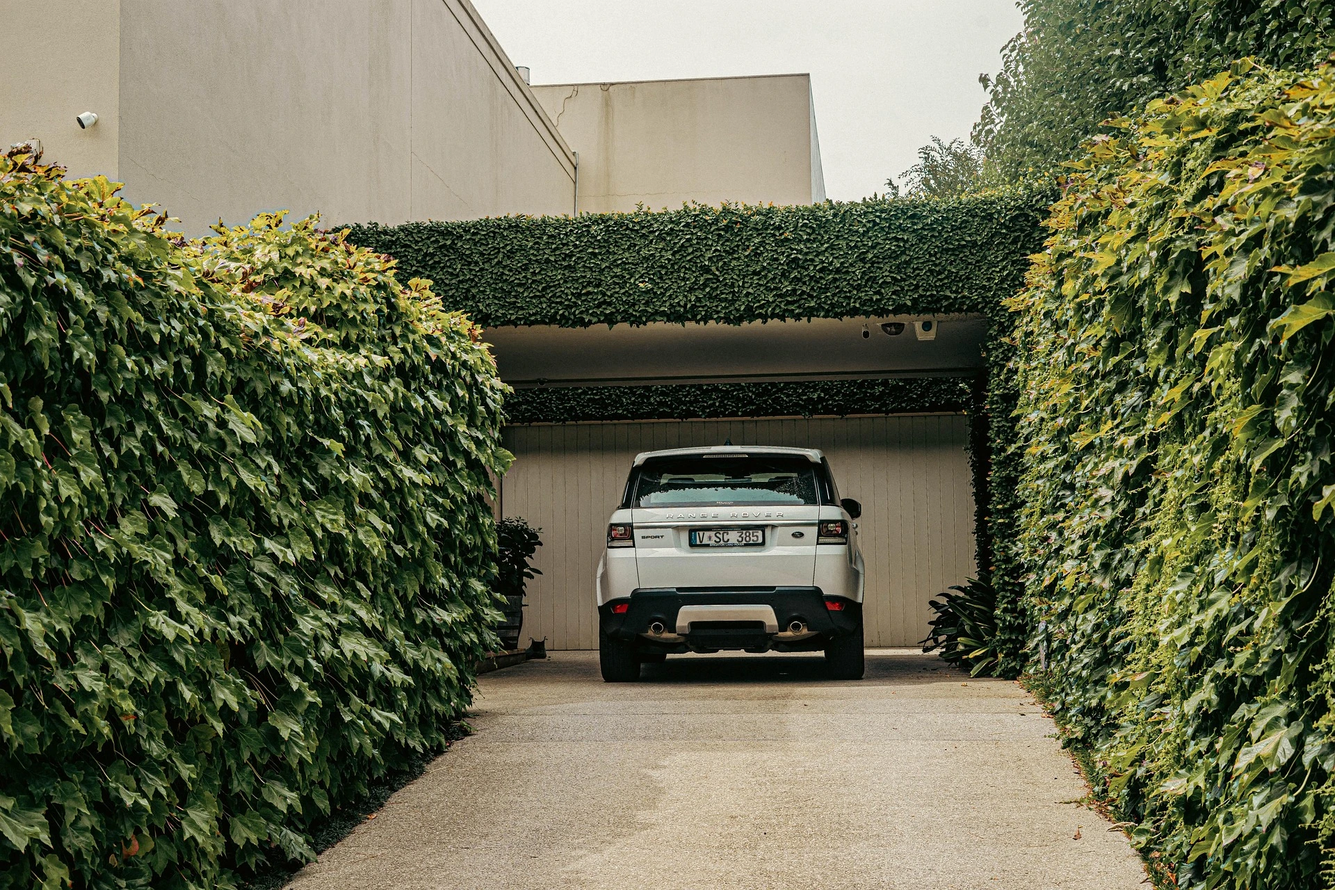
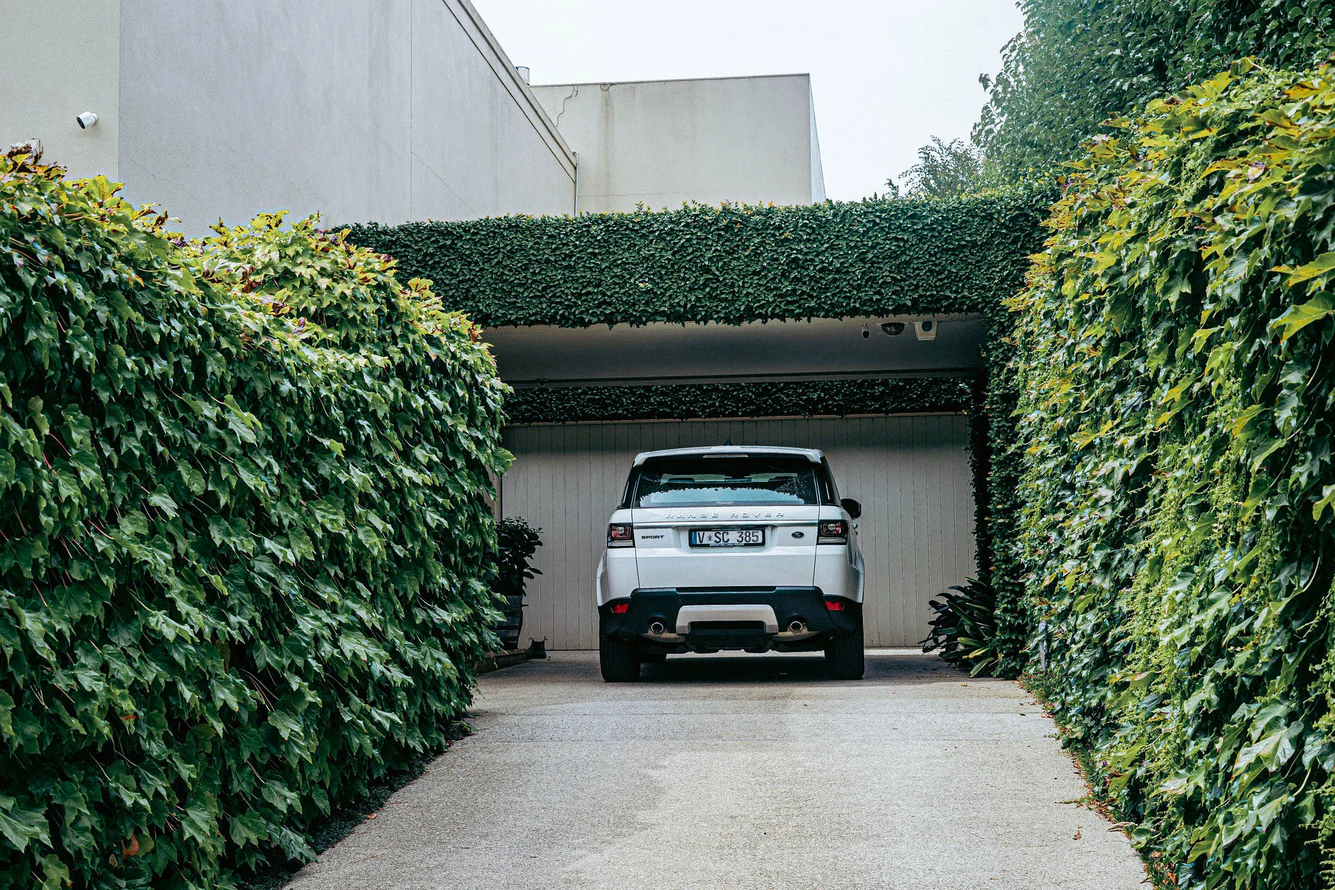
up

diff --git a/soluciones/index.html b/soluciones/index.html
@@ -206,7 +206,7 @@
 			<p class="sobre-texto">Al detectar que todos están dormidos o activar el modo noche, el sistema ajusta la temperatura para ahorrar energía, apaga luces innecesarias y reduce el consumo de dispositivos.</p>
 		</div>
     	<div class="item">
-			<img src="/img/buenosdias.webp" alt="Imagen 1">
+			<img src="/img/coffee.webp" alt="Imagen 1">
 			<h1 id="escena4">Rutina matutina</h1>
 			<p class="sobre-texto">Al despertar, el sistema ajusta la iluminación gradualmente, abre las persianas, pone música suave, para disfrutar del café diferenciando entre día de semana o fin de semana.</p>
 		</div>
